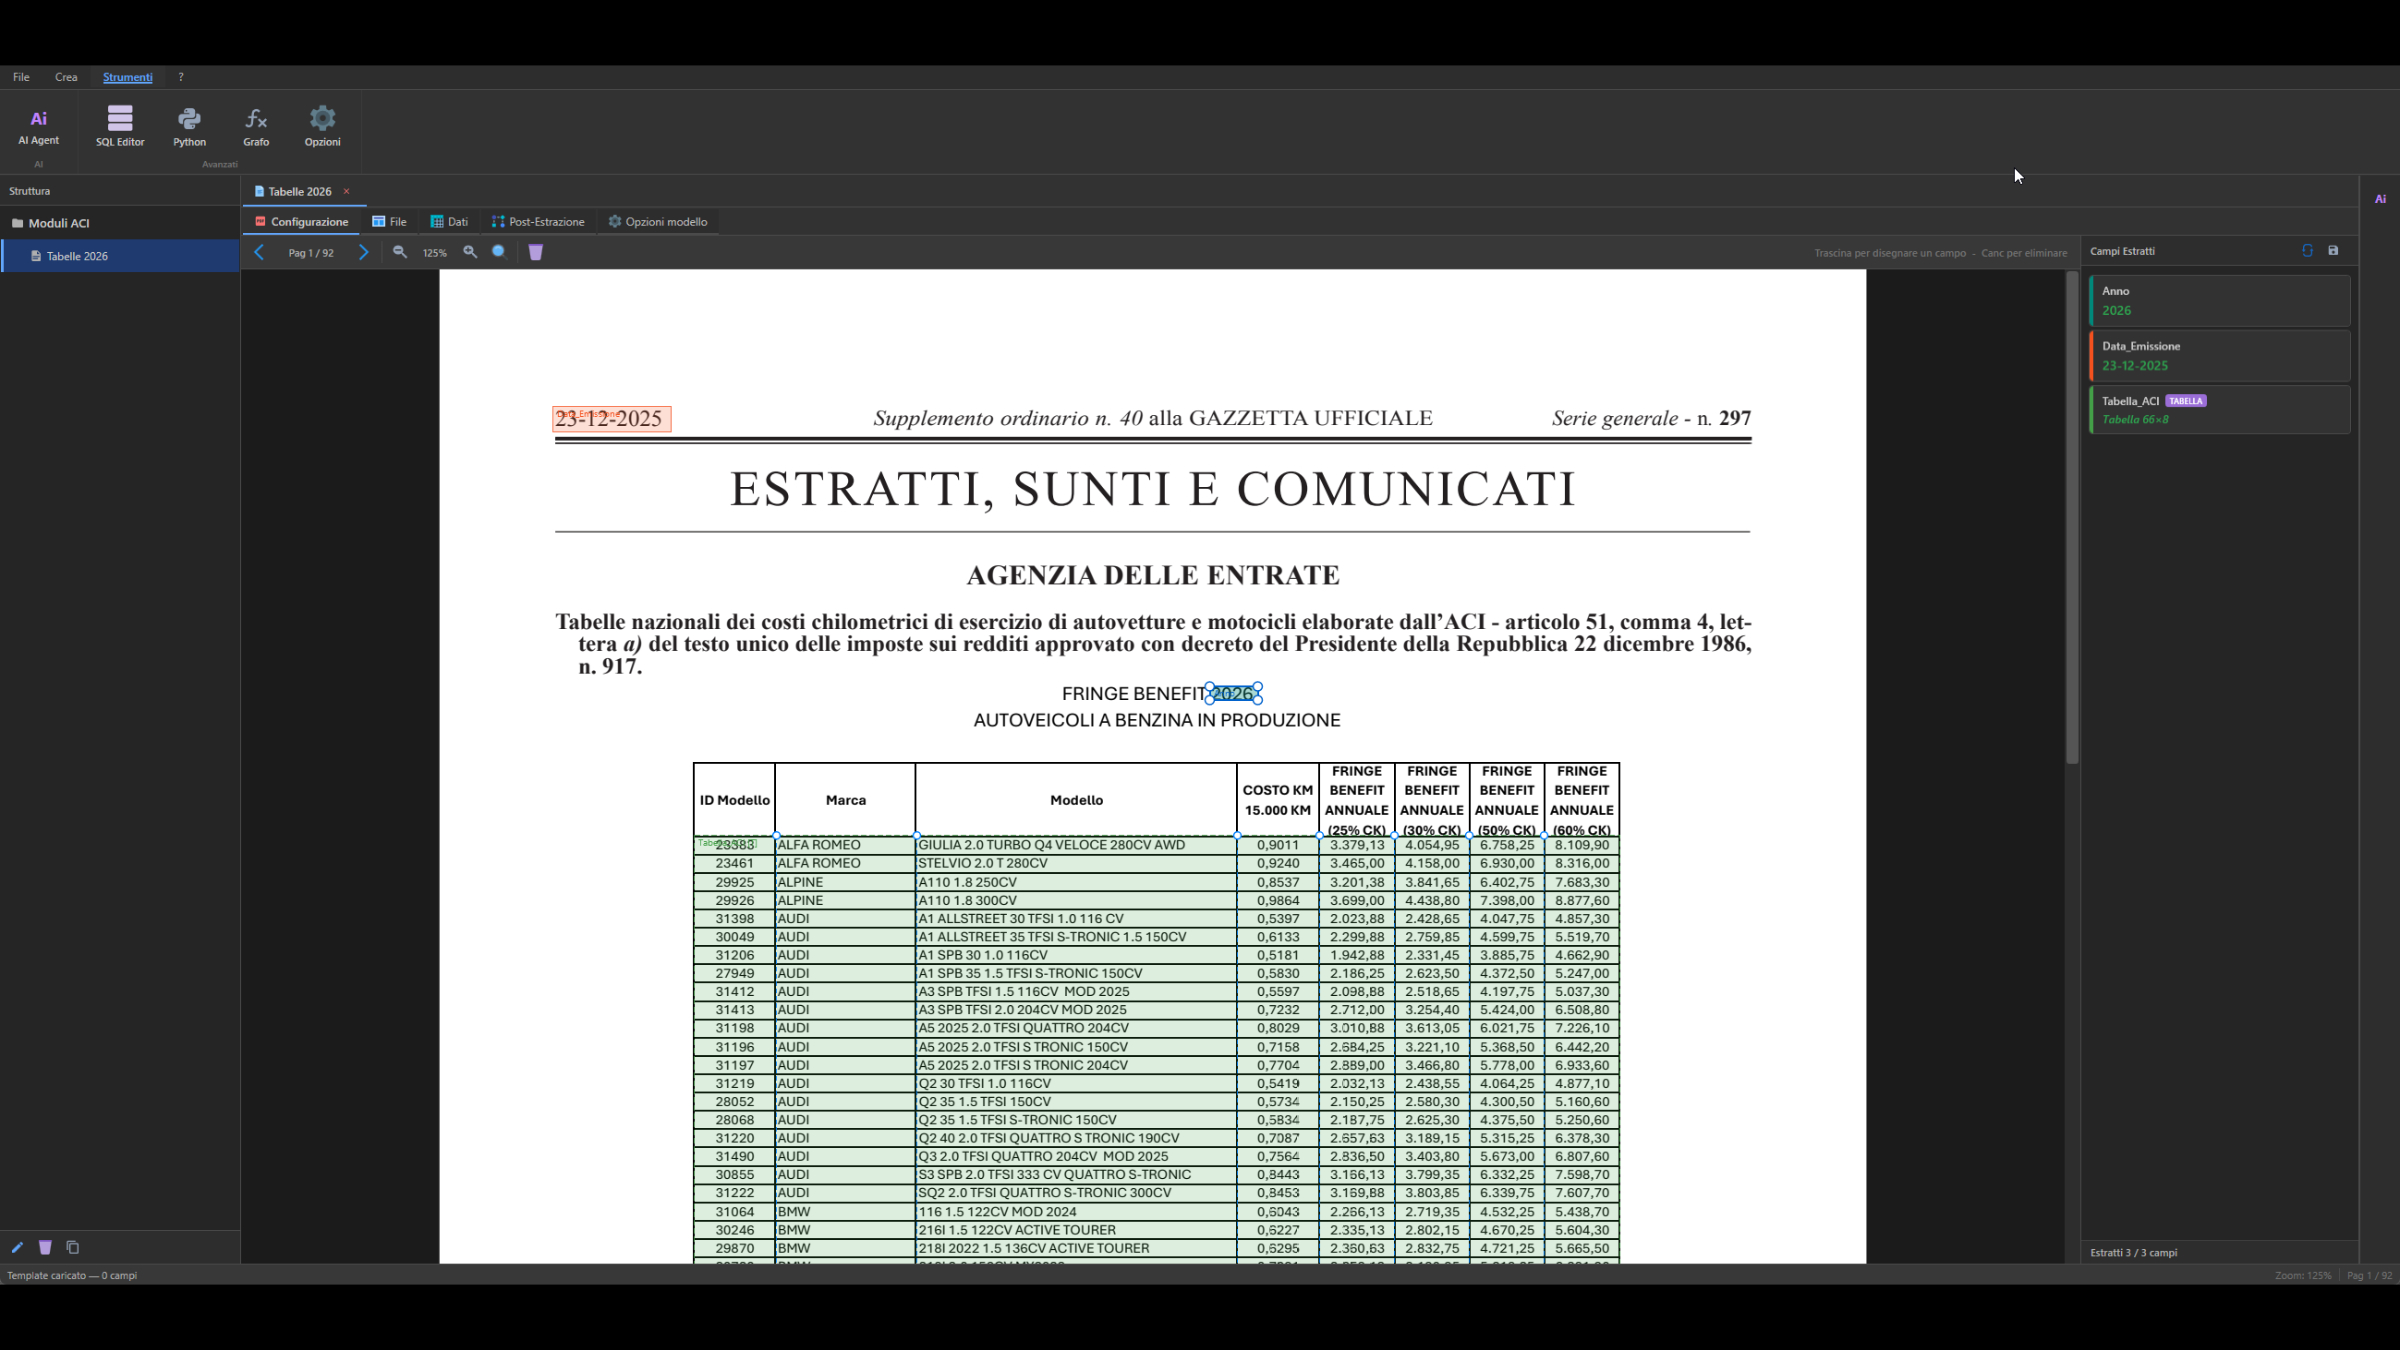
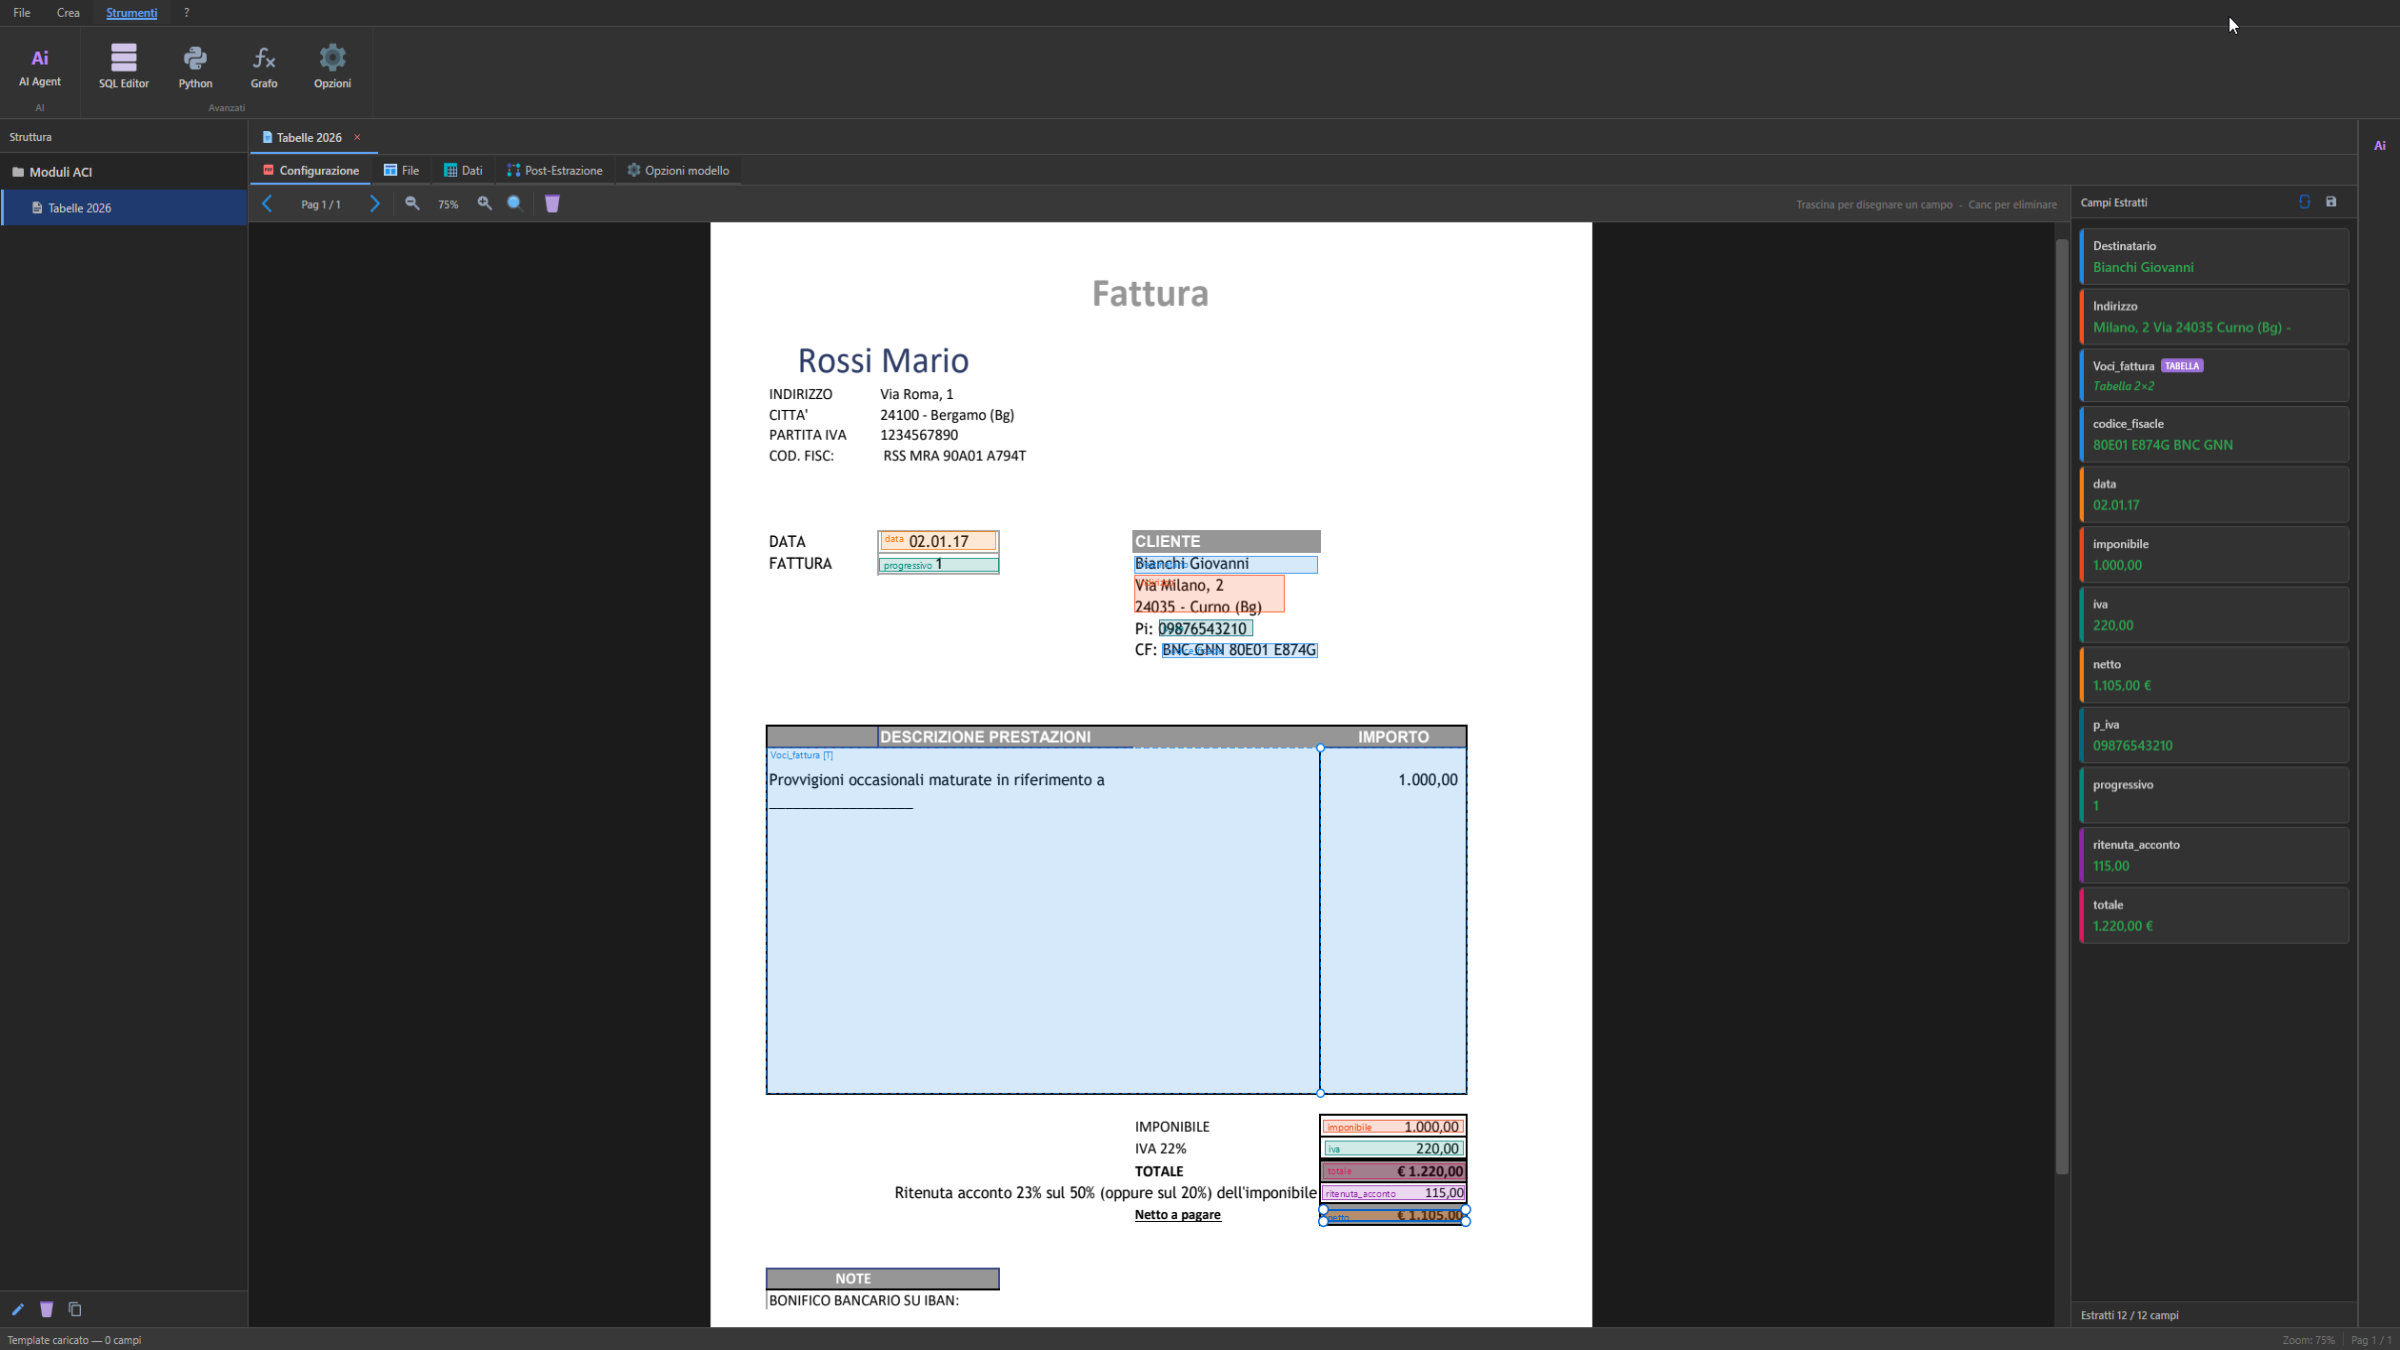
Fix immagine

diff --git a/index.html b/index.html
@@ -97,11 +97,10 @@
       <div class="window-frame">
         <div class="window-titlebar" aria-hidden="true">
           <span class="window-dot"></span><span class="window-dot"></span><span class="window-dot"></span>
-          <span class="window-title">DocuMiner — Tabelle ACI 2026</span>
+          <span class="window-title">DocuMiner — Fattura</span>
         </div>
         <div class="window-body">
           <img src="assets/img/hero-screen.jpg" alt="Schermata di DocuMiner con un PDF aperto e bounding box colorati che evidenziano i campi da estrarre" onerror="this.remove()" />
-          <div class="placeholder" aria-hidden="true">screenshot canvas con bounding box</div>
         </div>
       </div>
     </div>
